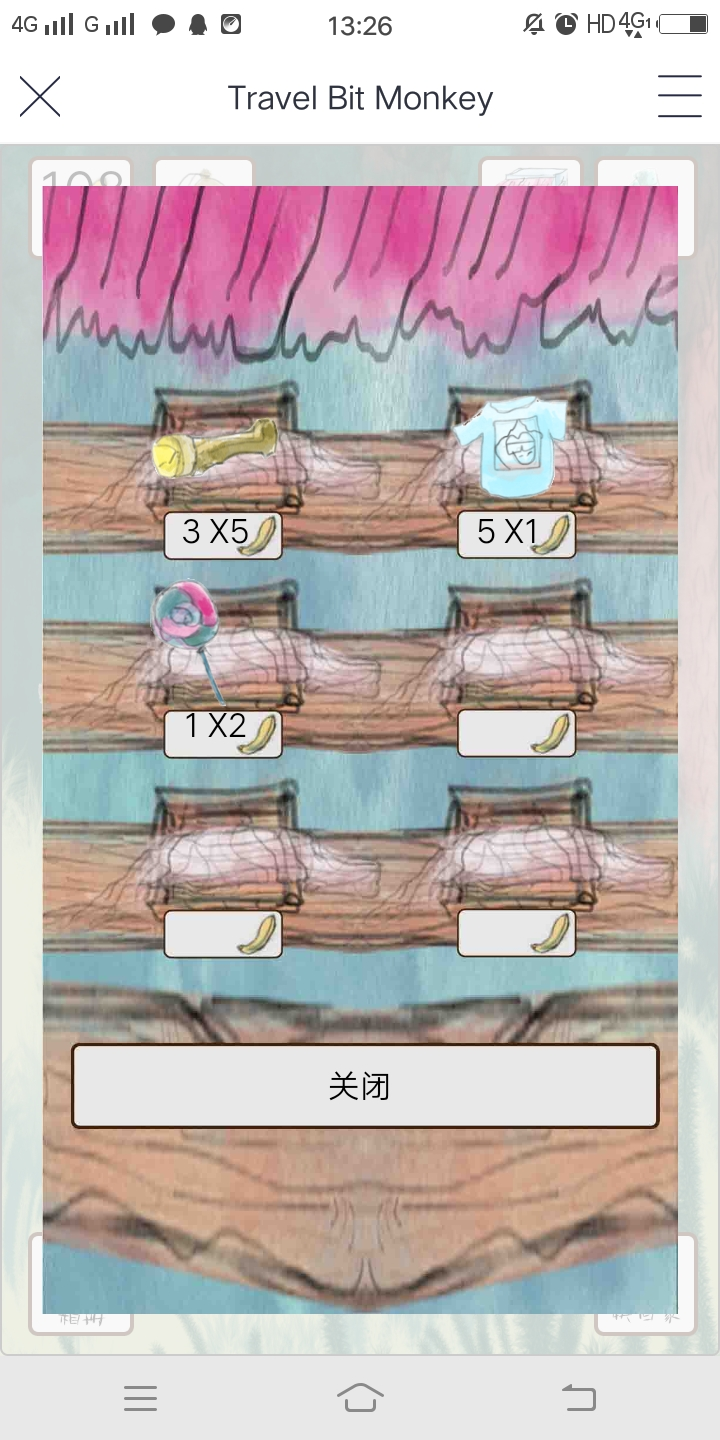
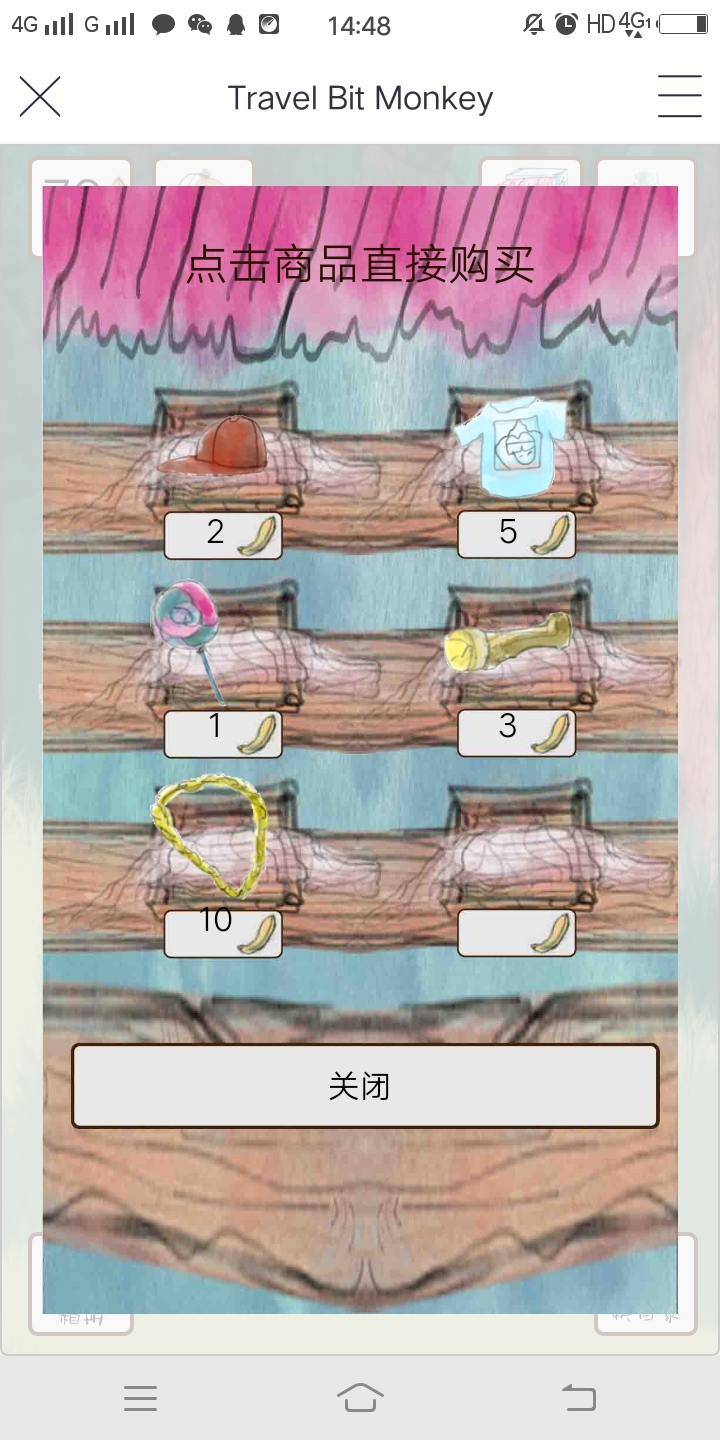
fix : fix image not right

diff --git a/README.md b/README.md
@@ -228,6 +228,11 @@ ps.保证手机和电脑在同一个局域网中
 <img width="30%" height="30%" src="readme_images/1.jpeg" />
 
 
+* 游戏商城，点击物品直接购买
+
+<img width="30%" height="30%" src="readme_images/market.jpeg" />
+
+
 * 玩家的背包
 
 <img width="30%" height="30%" src="readme_images/bag.jpeg" />
